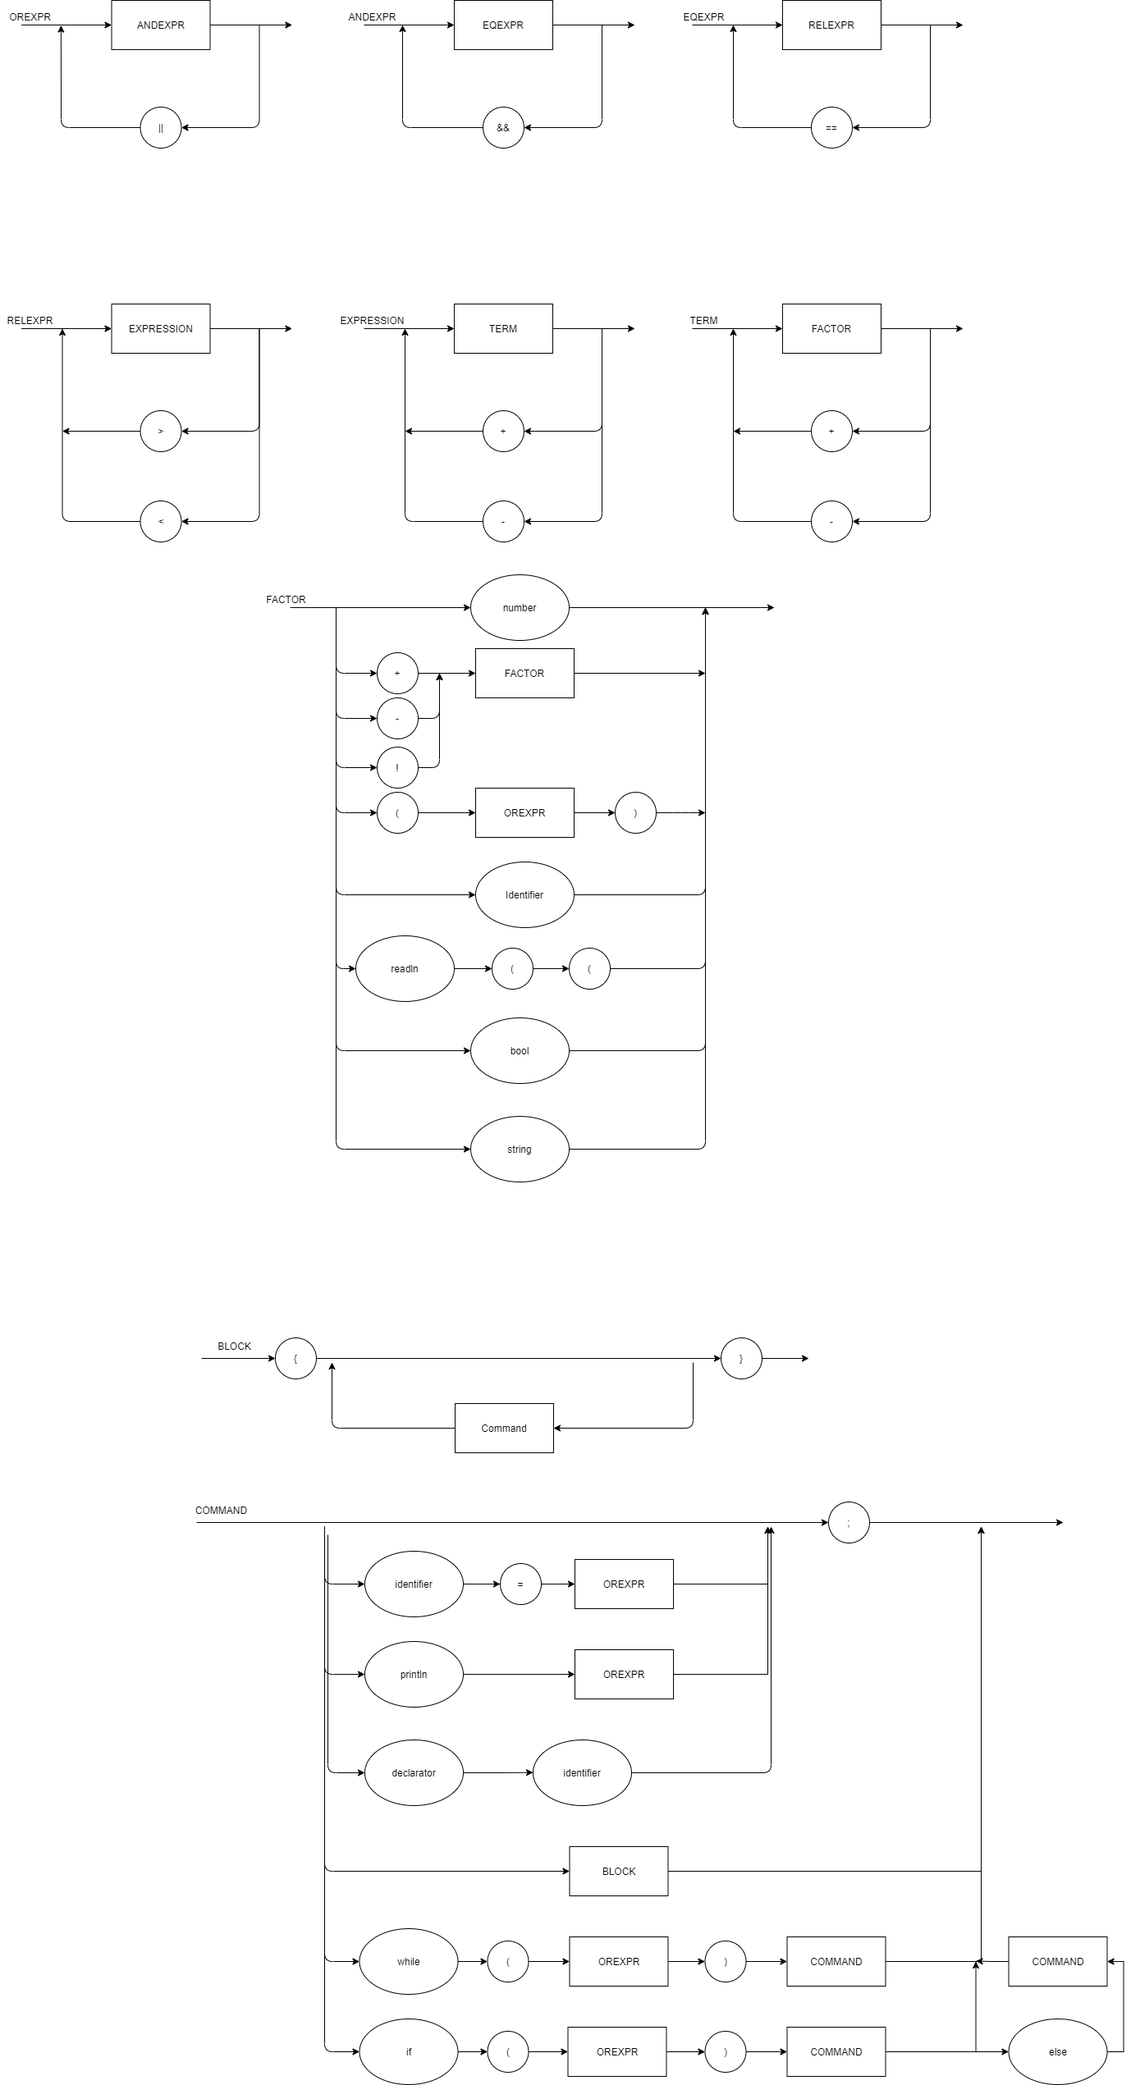
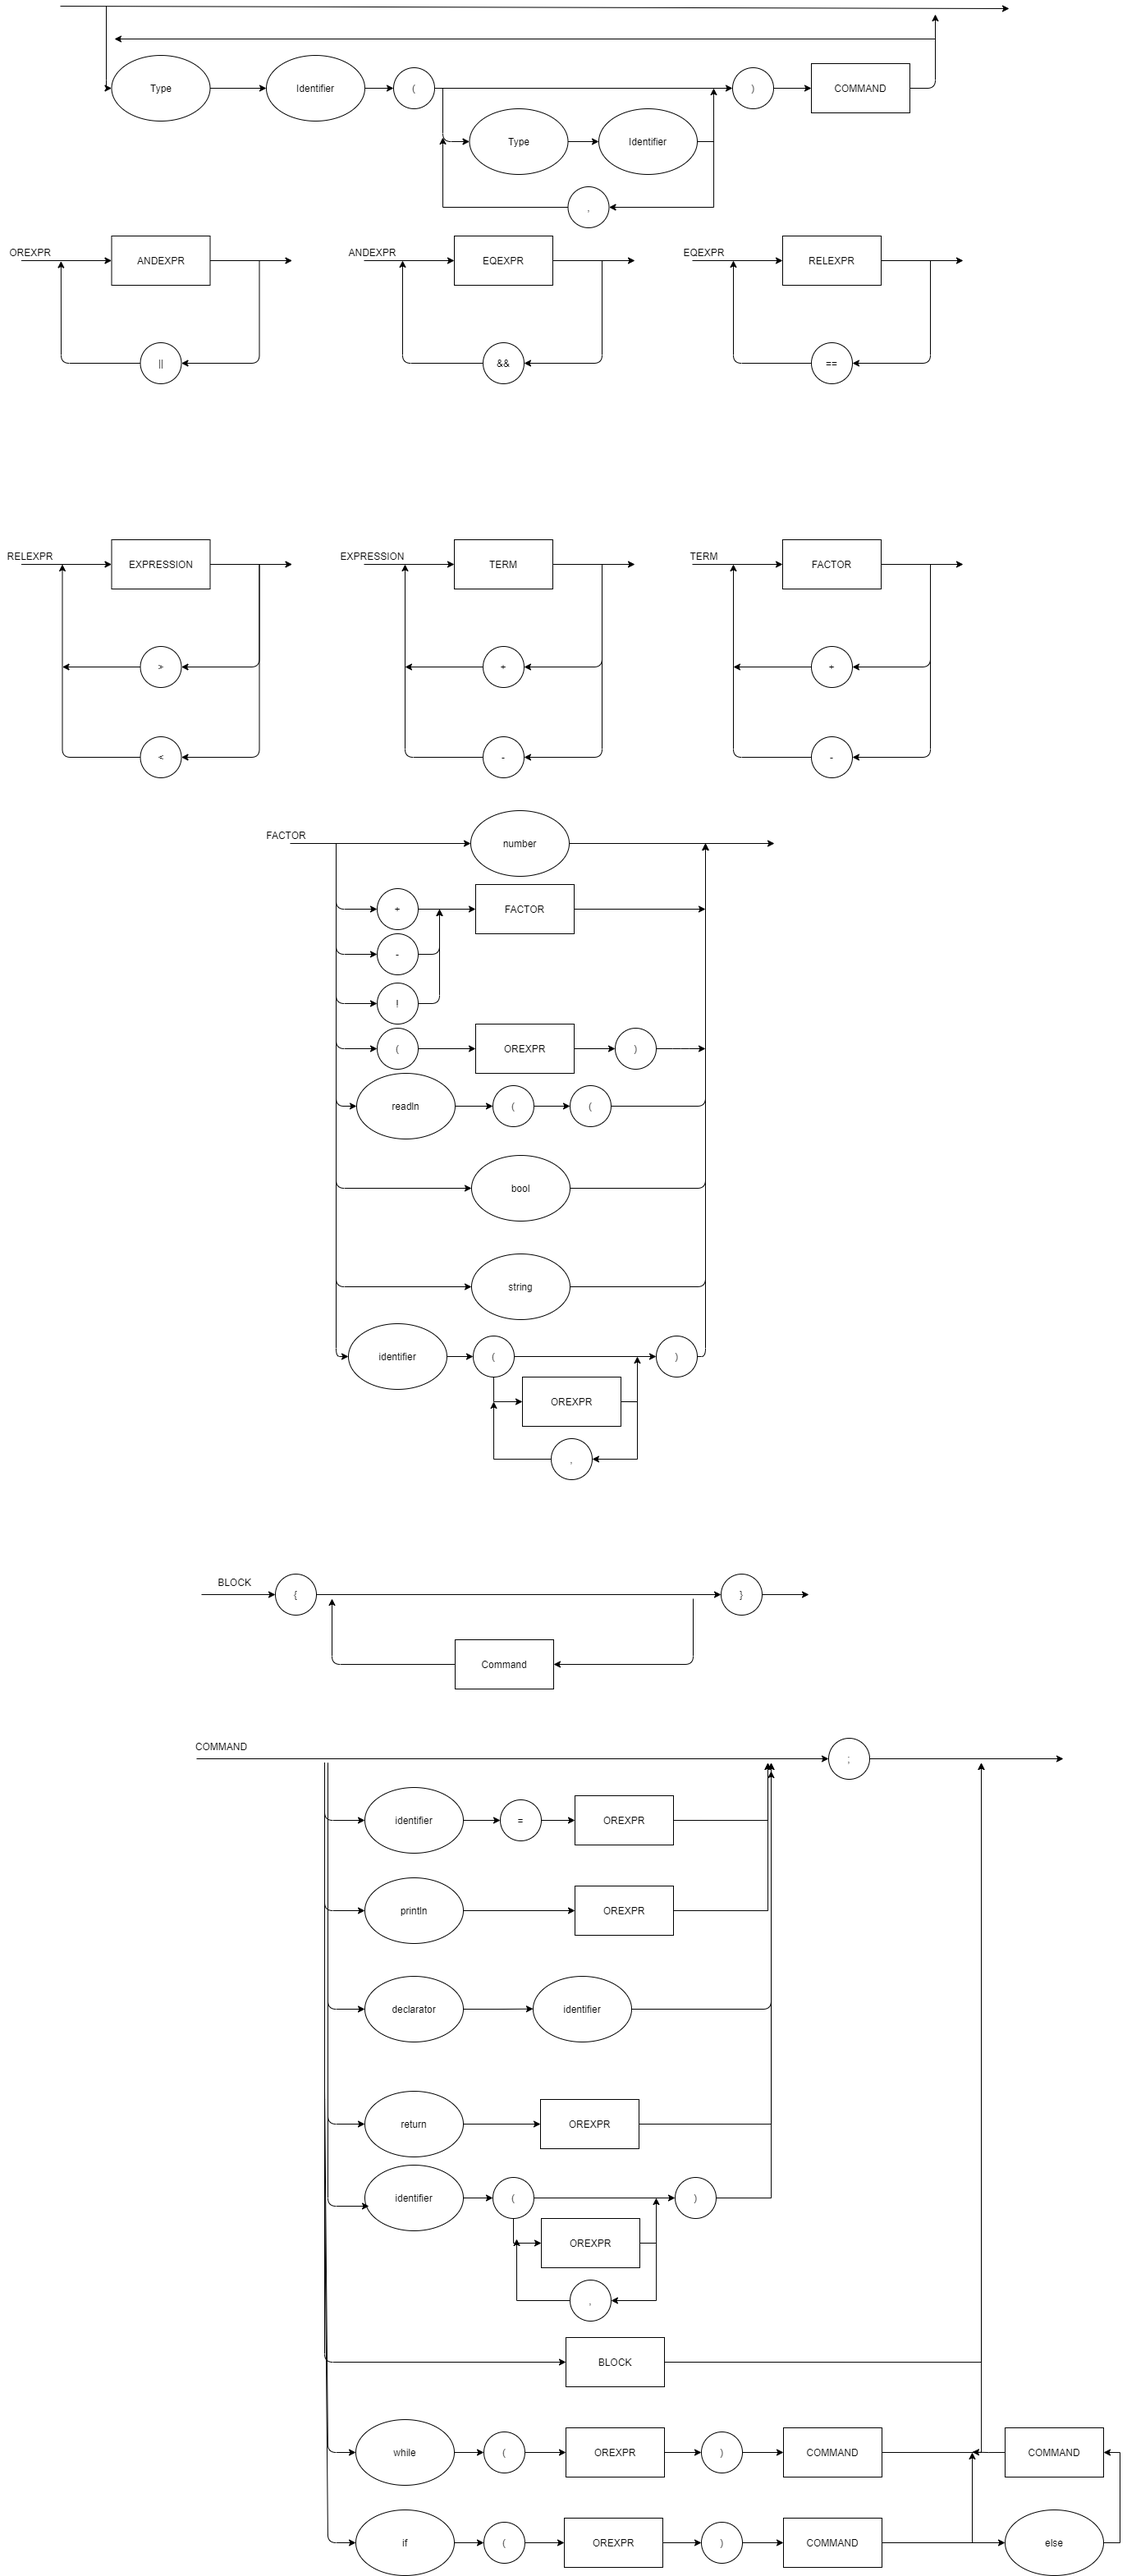
V2.4

diff --git a/compilador.py b/compilador.py
@@ -99,7 +99,6 @@ class Tokenizer:
             else: 
                 new = Token("IDENT", new)
         else:
-            print(self.origin[self.position])
             raise ValueError("ValueError exception thrown")
 
         self.actual = new
@@ -186,7 +185,6 @@ class Parser:
                         raise ValueError("ValueError exception thrown")
                 Parser.tokens.selectNext()
                 result = FuncCall(var, par_list)
-                    
             else:
                 raise ValueError("ValueError exception thrown")
             if Parser.tokens.actual.type == 'LB':
@@ -261,7 +259,15 @@ class Parser:
         elif Parser.tokens.actual.type =='LB':
             result = NoOp(0, [])
             Parser.tokens.selectNext()
-            
+
+        elif Parser.tokens.actual.type =='return':
+            Parser.tokens.selectNext()
+            var = Parser.parseOrExpr()
+            result = ReturnOp("return",[var])
+            if Parser.tokens.actual.type == 'LB':
+                Parser.tokens.selectNext()
+            else:
+                raise ValueError("ValueError exception thrown")
         else:
             raise ValueError("ValueError exception thrown")
             
@@ -302,8 +308,23 @@ class Parser:
             Parser.tokens.selectNext()
 
         elif Parser.tokens.actual.type == 'IDENT':
-            result = IdentifierOp(Parser.tokens.actual.value, [])
+            var = Parser.tokens.actual.value
             Parser.tokens.selectNext()
+            if (Parser.tokens.actual.type == '('):
+                par_list = []
+                Parser.tokens.selectNext()
+                while Parser.tokens.actual.type != ')':
+                    par_list.append(Parser.parseOrExpr())
+                    if(Parser.tokens.actual.type == ','):
+                        Parser.tokens.selectNext()
+                    elif (Parser.tokens.actual.type == ')'):
+                        pass
+                    else:
+                        raise ValueError("ValueError exception thrown")
+                Parser.tokens.selectNext()
+                result = FuncCall(var, par_list)
+            else:
+                result =IdentifierOp(var, [])
 
         elif Parser.tokens.actual.type == 'readln':
             Parser.tokens.selectNext()

diff --git a/nodes.py b/nodes.py
@@ -87,7 +87,7 @@ class StringVal(Node):
         self.children = children
 
     def Evaluate(self, table):
-        if type(self.value) == bool:
+        if type(self.value) == str:
             return (self.value, "string")
         else:
             raise ValueError("ValueError exception thrown")
@@ -120,8 +120,6 @@ class FuncCall(Node):
         self.children = children
     def Evaluate(self, table):
         func_table = SymbolTable();
-        print(self.value)
-        print(dic_func)
         if(self.value not in dic_func):
             raise ValueError("ValueError exception thrown")
         funcDef = dic_func[self.value]
@@ -136,8 +134,8 @@ class FuncCall(Node):
                 raise ValueError("ValueError exception thrown")
         funcDef.children[1].Evaluate(func_table)
 
-        # if("return" in func_table):
-        #     return func_table["return"]
+        if("return" in func_table.dic_var):
+            return func_table.dic_var["return"]
 
 class FuncDef(Node):
     def __init__(self, value, children):
@@ -156,6 +154,14 @@ class VarDec(Node):
     def Evaluate(self, table):
         for i in range(len(self.children)):
             self.children[i].Evaluate(table)
+
+class ReturnOp(Node):
+    def __init__(self, value, children):
+        self.value = value
+        self.children = children
+    def Evaluate(self, table):
+        if "return" not in table.dic_var:
+            table.dic_var["return"] = self.children[0].Evaluate(table)
 
 class AssignmentOp(Node):
     def __init__(self, value, children):

diff --git a/input.c b/input.c
@@ -1,14 +1,27 @@
-int soma(int x){
-    println(x+1);
+int soma(int x, int y) {
+    int a;
+    a = x + y;
+    println(a);
+    return a;
 }
 
-int soma2(int x){
-    println(x+2);
-}
+int fatorial(int n){
+    if(n == 0){
+        return 1;
+    }
+
+    return n*fatorial(n-1);
+}y
 
 int main() {
+    int a;
+    int b;
     int x;
-    x = 7;
-    soma(x);
-    soma2(x);
+    a = 3;
+    x = 4;
+    b = soma(a, 4);
+    x = fatorial(x);
+    println(x);
+    println(a);
+    println(b);
 }

diff --git a/README.md b/README.md
@@ -17,8 +17,10 @@ Exemplo (criando um arquivo "expressão1.c):
 ### EBNF:
 
 ```
+FUNCDEFBLOCK = (λ | TYPE,IDENTIFIER, "(", {TYPE, IDENTIFIER},{(",",TYPE,IDENTIFIER)}, ")", COMMAND);
 BLOCK = "{", { COMMAND }, "}" ; 
-COMMAND = ( λ | ASSIGNMENT | PRINT | BLOCK | WHILE | IF | DECLARATOR), ";" ; 
+COMMAND = ( λ | ASSIGNMENT | PRINT | BLOCK | WHILE | IF | DECLARATOR | RETURN), ";" ; 
+RETURN = "return", OREXPRESSION
 DECLARATOR = (INT | BOOL | STRING), IDENTIFIER;
 WHILE = "while", "(", OREXPR ,")", COMMAND;
 IF = "if", "(", OREXPR ,")", COMMAND, (("else", COMMAND) | λ );
@@ -32,7 +34,7 @@ EXPRESSION = TERM, { ("+" | "-"), TERM } ;
 TERM = FACTOR, { ("*" | "/"), FACTOR } ; 
 FACTOR = (("+" | "-" | "!" ), FACTOR) | NUMBER | STRING | BOOL | "(", OREXPR,  ")" | IDENTIFIER | READLN;
 READLN = "readln", "(",")";
-IDENTIFIER = LETTER, { LETTER | DIGIT | "_" } ; 
+IDENTIFIER = LETTER, { LETTER | DIGIT | "_" }, { "(", {(OREXPR), ","}, ")" } ;
 NUMBER = DIGIT, { DIGIT } ; 
 STRING = '"', { LETTER | DIGIT }, '"' ; 
 LETTER = ( a | ... | z | A | ... | Z ) ; 
